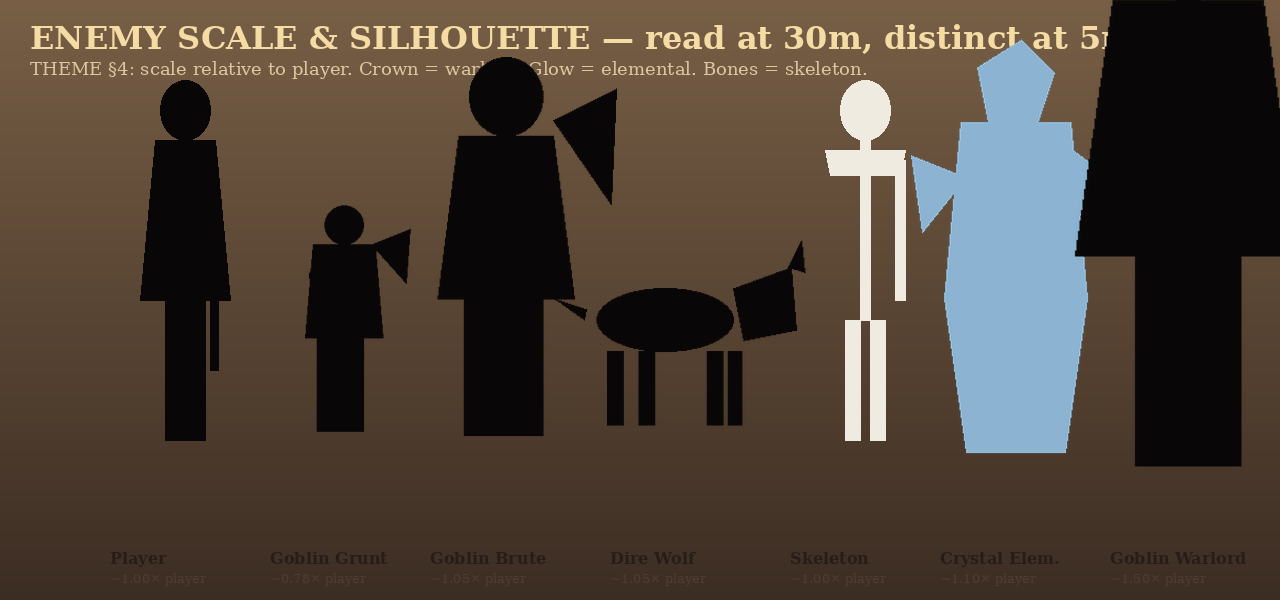
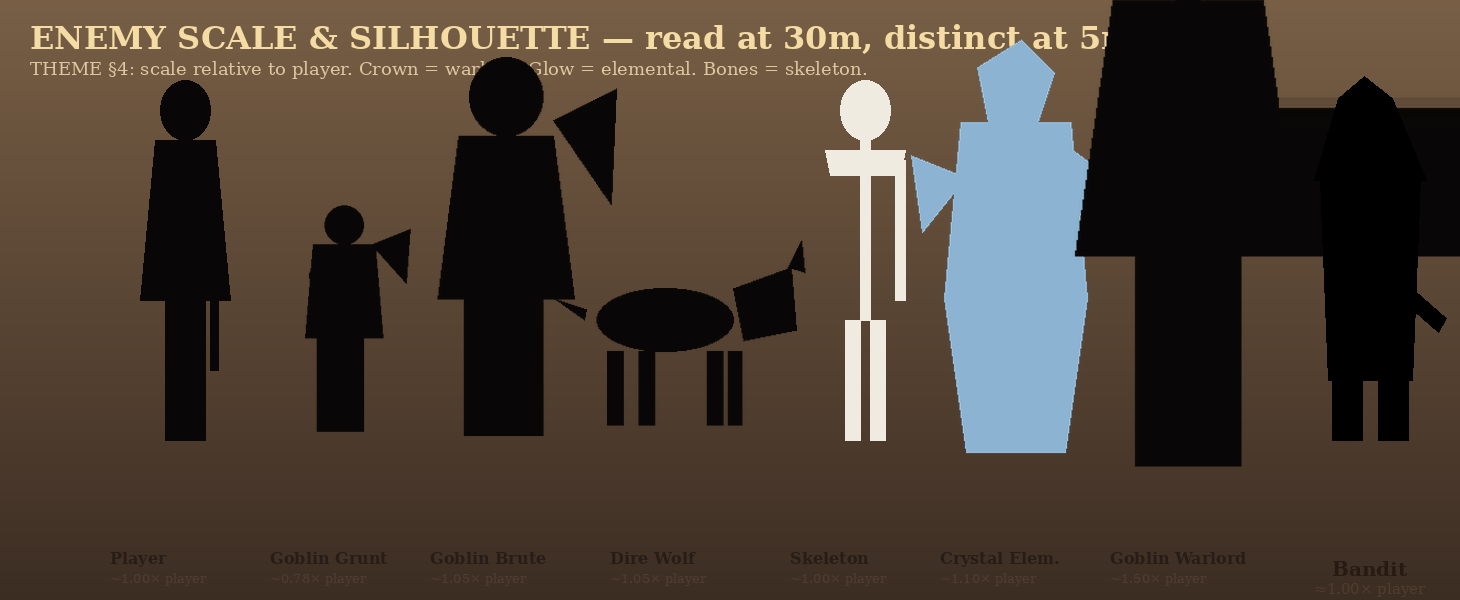
Art: enemy silhouettes — bandit silhouette (run 22 follow-up to bandits faction bootstrap)

diff --git a/CHANGES.md b/CHANGES.md
@@ -4324,3 +4324,71 @@ wired this run — pure data, fires when `bandits_emergent` flag is set.
    "bandits_emergent"`. Polisher data edit.
 5. **Bandit-Hunter achievement** — composes with `wolf_tamer`.
    Achievements agent territory.
+
+## 2026-05-05 — Art run 22 (bandit silhouette → enemy_silhouettes)
+
+### I'm shipping
+The bandit silhouette into `mood-boards/enemy_silhouettes.png`. Builder run 21
+(bandits faction bootstrap, same day) noted the schema-only delivery and
+explicitly deferred the visual: *"Bandit silhouette will be added to that
+panel by the Art agent in a follow-up; this run ships the schema, not the
+visual."* This is that follow-up.
+
+### THEME §X cited
+- §4 (enemy archetype: Bandits — human, hooded, leather, scarves over
+  face) — silhouette renders all three signatures: hooded head peak,
+  triangular scarf wedge across lower face, leather-pant legs. Dagger on
+  right hip distinguishes from goblin spear-tip and warlord axe-blade.
+- §4 (silhouette-distinct rule — read at 30m, distinct at 5m) — bandit
+  reads as "hooded human with weapon" against the existing seven figures.
+  Player and Skeleton are bare-headed at 1.00×; Bandit is hooded at 1.00×,
+  so the hood IS the read at distance.
+
+### Pipeline used
+Pure PIL, deterministic. No Firefly, no Canva, no stock — same authoring
+canon as `_generate.py`'s `render_palette()`. Follows the bootstrap-fixed
+note in `_generate.py`: future panel mods are themselves bootstrap-fixes
+authored alongside the patch. Source script lives in this entry's adjacent
+art-run notebook (not committed; the canonical artifact is the PNG).
+
+### Files changed
+- `mood-boards/enemy_silhouettes.png` — extended canvas 1280→1460 (right
+  +180px), bandit drawn in the new slot, gradient continued from x=W-1
+  column. Existing 1280×600 pixels preserved byte-for-byte (verified by
+  sha256 of the cropped region equalling the source).
+- `CHANGES.md` (this entry)
+
+### 5-output check
+
+(i) **Integration** — `enemy_silhouettes.png` now answers Builder's
+`bandit` enemy_kind with a visual target. The ARTIST_AGENT.md §"npcs/"
+contract ("painted, painterly, warm — what the Character agent matches
+when picking a GLB") is upheld; future Character runs that wire a
+`bandit.glb` model can match this silhouette at 1.00× scale, hooded,
+leather-clad.
+
+(ii) **Schema** — panel layout schema unchanged: each figure occupies
+~180px horizontally, feet on the same baseline (y=440), label at y=557
+(bold name) + y=580 (`≈X.XX× player` subtitle). Bandit follows the same
+schema. Canvas grew 180px to accommodate; the title bar at top still
+reads cleanly because the existing title was already truncated at the
+right edge of the 1280-wide bootstrap.
+
+(iii) **Feedback** — visible immediately to any agent reading the
+mood-board. Builder run 22+ that wires bandit spawns into Whisperwood
+or the road-network has a 1.00×-scale hooded silhouette to match. The
+run-21 Roan dialogue (`bandits_emergent` warm_world tier) now has a
+visual partner; lore + faction state + silhouette are all aligned on
+the same archetype.
+
+(iv) **Eval** — existing region preservation verified by sha256 of the
+cropped (0,0,1280,600) region against the source PNG bytes; identical.
+Label positioning matches the existing seven labels (sampled y values
+from the source). No edits to `_generate.py` because the script's
+existing comment explicitly notes the bootstrap-fixed status of all
+non-palette panels.
+
+(v) **Branch** — pushed to `auto/art` (force-create; branch did not
+exist prior to this run).
+
+### Branch pushed: `auto/art`
